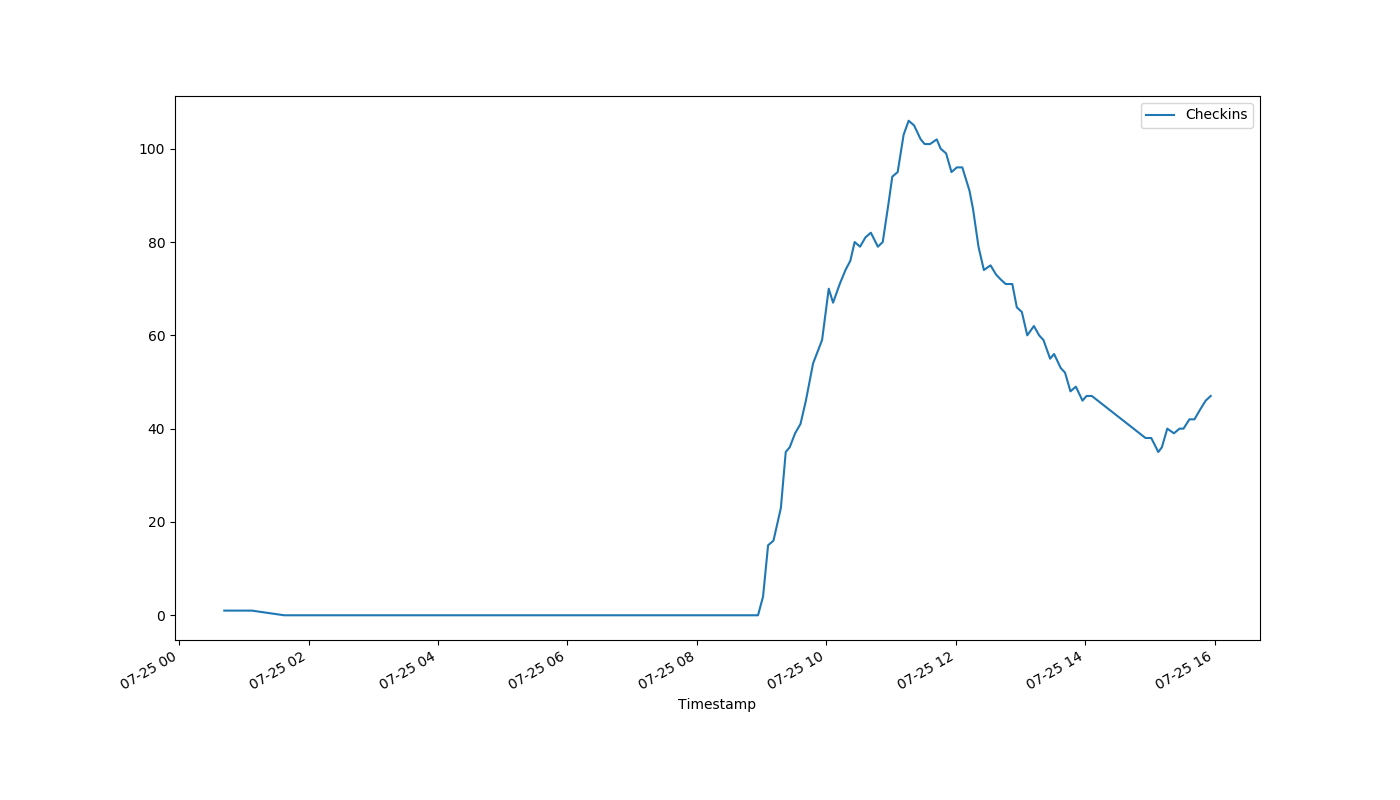
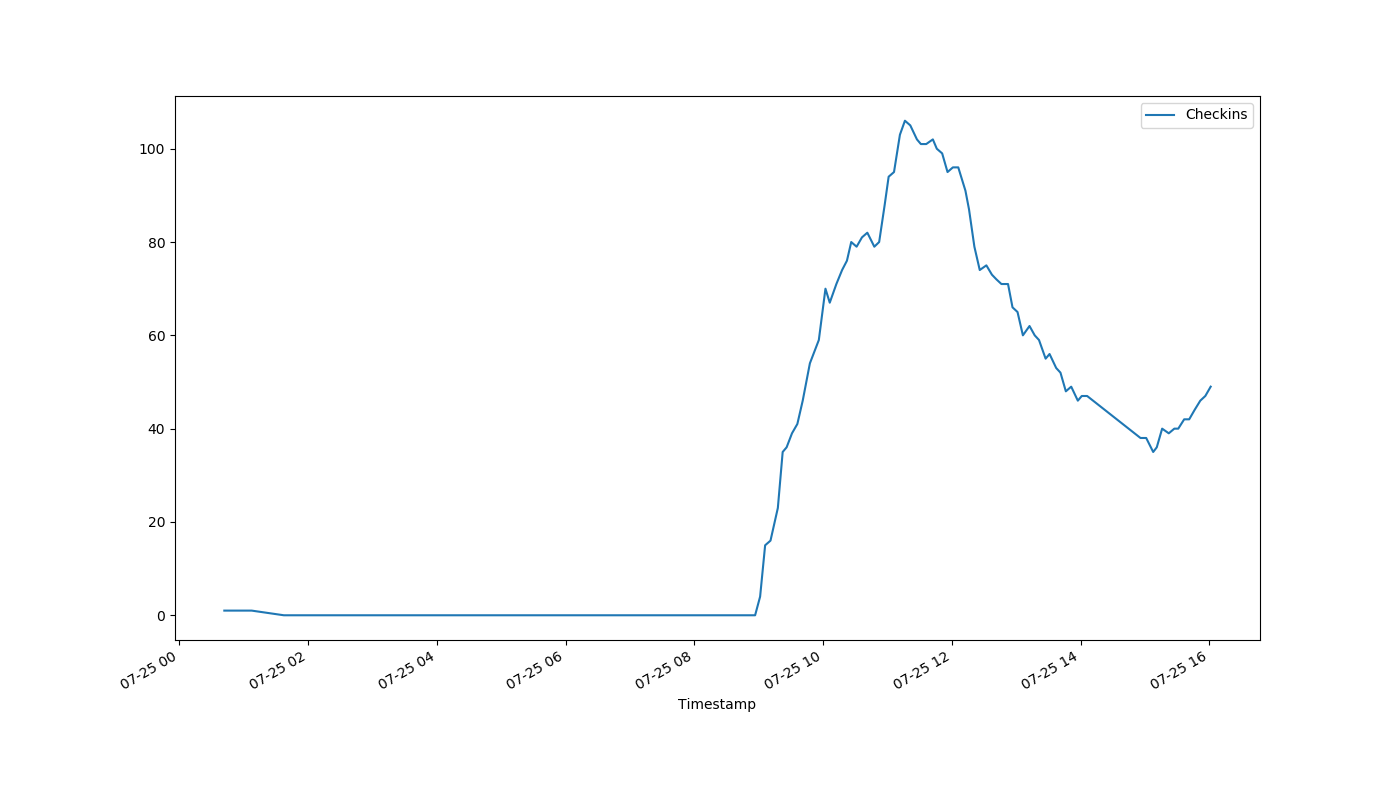
auto-Jul-25-16:03:26

diff --git a/index.html b/index.html
@@ -1,1 +1,1 @@
-<!DOCTYPE html><html><head><meta http-equiv="refresh" content="30"><link rel='stylesheet' href='holmcurrent.css'></head><body><p id='count'>47</p><div id='graph-wrap'><img id='graph' src='holmgraph-Jul-25.png'></div><p id='updated'>Last updated 15:57:07 / 15:56:19</p></body></html>
+<!DOCTYPE html><html><head><meta http-equiv="refresh" content="30"><link rel='stylesheet' href='holmcurrent.css'></head><body><p id='count'>49</p><div id='graph-wrap'><img id='graph' src='holmgraph-Jul-25.png'></div><p id='updated'>Last updated 16:02:08 / 16:01:19</p></body></html>
